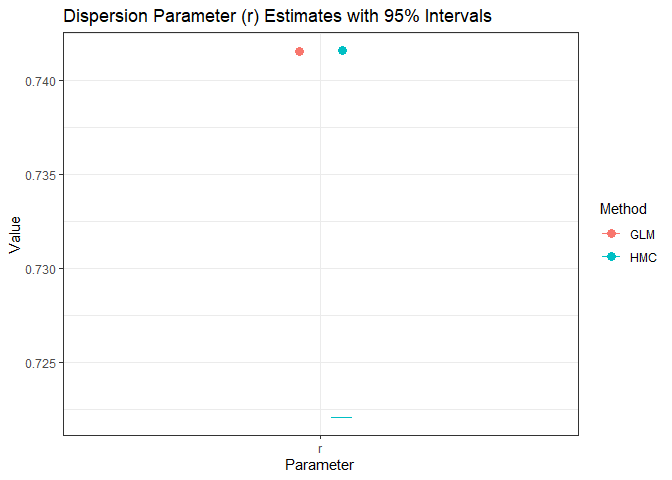
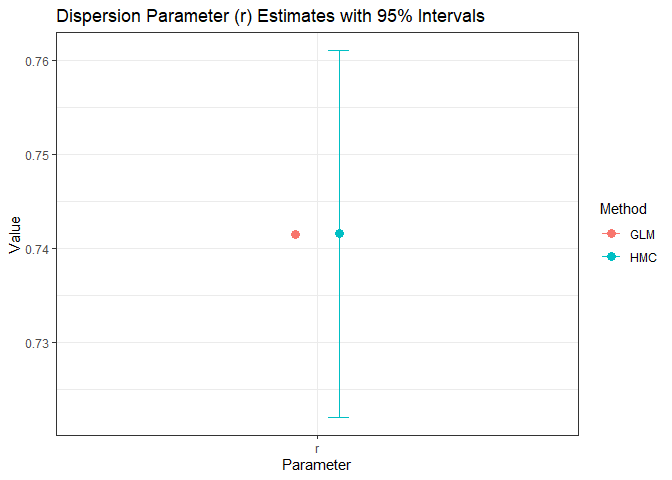
Update README

diff --git a/README.md b/README.md
@@ -117,9 +117,9 @@ Binomials data and run the adaptive HMC sampler to estimate the
 regression coefficients. You can play with example by altering the
 params. To contrast the result we used a package called `MCMCpack` to
 run a random walk Metropolis sampler. It provides a function called
-`MCMCnegbin` to fit a Negative Binomial regression model using a auxiliary mixture sampling
-algorithm. Unlike our approach, it estimates the
-dispersion parameter `r` based on the outcome of generalized linear
+`MCMCnegbin` to fit a Negative Binomial regression model using a
+auxiliary mixture sampling algorithm. Unlike our approach, it estimates
+the dispersion parameter `r` based on the outcome of generalized linear
 model (GLM). `MCMCnegbin` fails to provide valid estimates of `r` when
 the number of observations is less than 200 (not converge) or over 2000
 (takes too many memories), while our HMC sampler can handle a larger
@@ -178,7 +178,7 @@ result <- hmc_sampler(
 )
 end_time <- Sys.time()
 print(paste("HMC runtime:", end_time - start_time))
-#> [1] "HMC runtime: 20.5755100250244"
+#> [1] "HMC runtime: 20.6978459358215"
 
 # Transform phi samples back to r for reporting
 r_samples <- exp(result$samples[, p + 1])
@@ -1050,15 +1050,15 @@ df_r <- data.frame(
   Method = factor(c("HMC", "GLM")),
   Estimate = c(hmc_mean["r"], glm_coef_aligned["r"]),
   CI_Lower = c(hmc_ci_lower["r_samples"], glm_ci["r", 1]),
-  CI_Upper = c(hmc_ci_upper["r"], glm_ci["r", 2])
+  CI_Upper = c(hmc_ci_upper["r_samples"], glm_ci["r", 2])
 )
 
 print("df_r:")
 #> [1] "df_r:"
 print(df_r)
-#>           Parameter Method  Estimate  CI_Lower CI_Upper
-#> r_samples         r    HMC 0.7415651 0.7220888       NA
-#>                   r    GLM 0.7415346        NA       NA
+#>           Parameter Method  Estimate  CI_Lower  CI_Upper
+#> r_samples         r    HMC 0.7415651 0.7220888 0.7610134
+#>                   r    GLM 0.7415346        NA        NA
 
 # ===== Create the plot for r =====
 ggplot(df_r, aes(x = Parameter, y = Estimate, color = Method)) +
@@ -1122,6 +1122,8 @@ for (i in 1:3) {
 ``` r
 
 # --- Generate trace plots for MCMCnegbin and add mean line ---
+par(mfrow = c(2, 3), mar = c(4, 4, 2, 1))
+chain_metropolis <- as.data.frame(chain_metropolis)
 for (i in 1:3) {
   param_name <- first_three[i]
   plot(chain_metropolis[, param_name],
@@ -1137,9 +1139,25 @@ for (i in 1:3) {
   legend("topright", legend = paste("Mean:", round(MCMCnegbin_mean_val, 3)), 
          bty = "n", col = "blue", lty = 2, cex = 0.8)
 }
+
+# density plot
+for (i in 1:3) {
+  param_name <- first_three[i]
+  plot(density(chain_metropolis[, param_name]), 
+       main = paste("MCMCnegbin Density:", param_name),
+       xlab = "Value",
+       ylab = "Density")
+  
+  MCMCnegbin_mean_val <- mean(chain_metropolis[, param_name])
+  
+  abline(v = MCMCnegbin_mean_val, col = "blue", lwd = 2, lty = 2)
+  
+  legend("topright", legend = paste("Mean:", round(MCMCnegbin_mean_val, 3)), 
+         bty = "n", col = "blue", lty = 2, cex = 0.8)
+}
 ```
 
-<img src="man/figures/README-real-world-example-2-4.png" width="100%" /><img src="man/figures/README-real-world-example-2-5.png" width="100%" /><img src="man/figures/README-real-world-example-2-6.png" width="100%" />
+<img src="man/figures/README-real-world-example-2-4.png" width="100%" />
 
 ``` r
 
